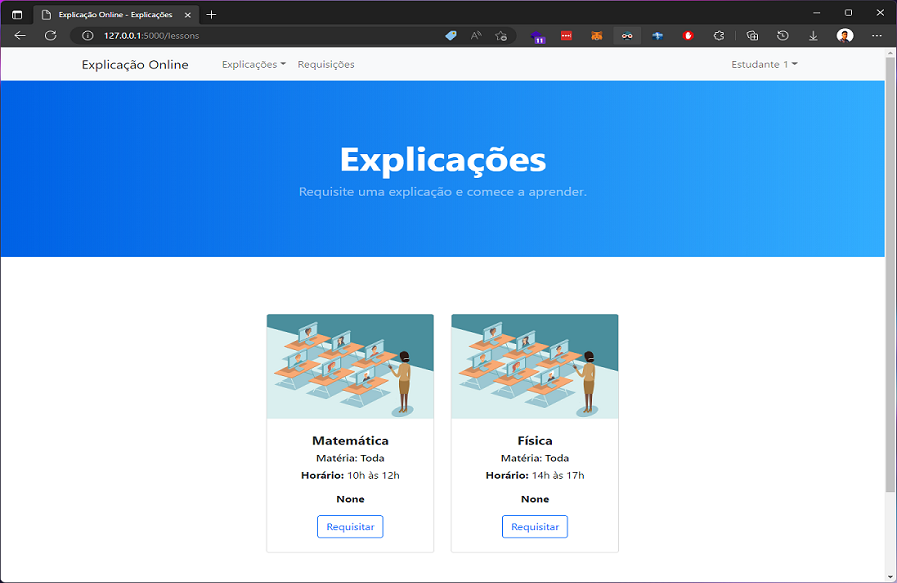
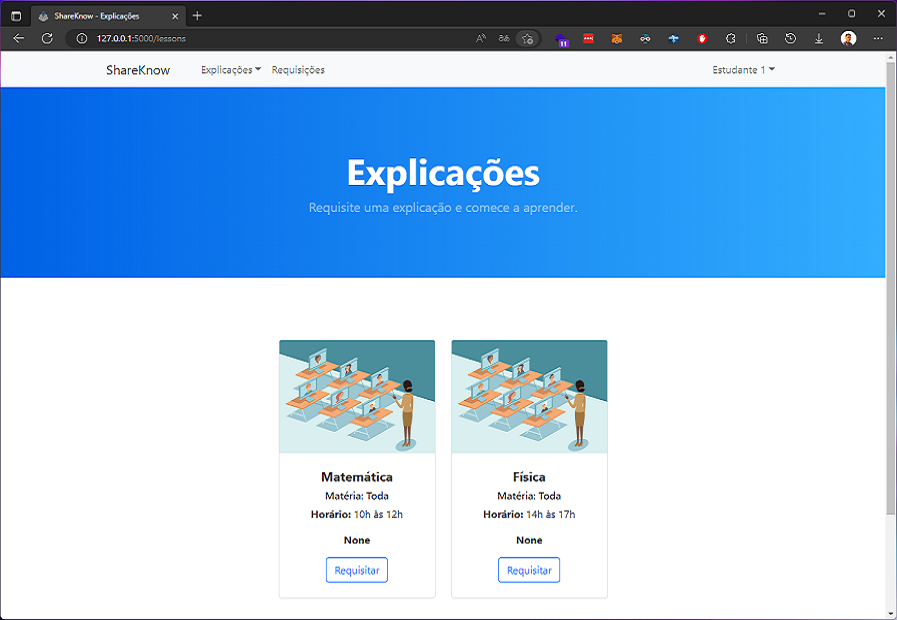
Short changes

diff --git a/src/templates/index.html b/src/templates/index.html
@@ -6,7 +6,7 @@
         <meta name="description" content="" />
         <meta name="author" content="" />
         <title>ShareKnow</title>
-        <link rel="icon" type="image/x-icon" href="assets/favicon.ico" />
+        <link rel="icon" type="image/x-icon" href="../static/images/favicon.png" />
         <!-- Font Awesome icons (free version)-->
         <script src="https://use.fontawesome.com/releases/v6.1.0/js/all.js" crossorigin="anonymous"></script>
         <!-- Google fonts-->
@@ -23,6 +23,7 @@
         <div class="masthead">
             <div class="masthead-content text-white">
                 <div class="container-fluid px-4 px-lg-0">
+                    <img class="mb-2" src="../static/images/logo.png" width="100px" height="100px">
                     <h1 class="fst-italic lh-1 mb-4">ShareKnow</h1>
                     <p class="mb-5">Gerencia suas explicações de forma 100% online, com suporte a pagamentos e integração com aulas ao vivo.</p>
                     <div class="col-auto"><a class="btn" style="background: linear-gradient(to right, #0062E6, #33AEFF);" href="/login">Entrar agora</a></div>

diff --git a/src/templates/manage-lessons.html b/src/templates/manage-lessons.html
@@ -7,7 +7,7 @@
         <meta name="author" content="" />
         <title>ShareKnow - Gerir Explicações</title>
         <!-- Favicon-->
-        <link rel="icon" type="image/x-icon" href="assets/favicon.ico" />
+        <link rel="icon" type="image/x-icon" href="../static/images/favicon.png" />
         <!-- Bootstrap icons-->
         <link href="https://cdn.jsdelivr.net/npm/bootstrap-icons@1.5.0/font/bootstrap-icons.css" rel="stylesheet" />
         <!-- Core theme CSS (includes Bootstrap)-->

diff --git a/src/templates/manage-requests.html b/src/templates/manage-requests.html
@@ -7,7 +7,7 @@
         <meta name="author" content="" />
         <title>ShareKnow - Gerir Requisições</title>
         <!-- Favicon-->
-        <link rel="icon" type="image/x-icon" href="assets/favicon.ico" />
+        <link rel="icon" type="image/x-icon" href="../static/images/favicon.png" />
         <!-- Bootstrap icons-->
         <link href="https://cdn.jsdelivr.net/npm/bootstrap-icons@1.5.0/font/bootstrap-icons.css" rel="stylesheet" />
         <!-- Core theme CSS (includes Bootstrap)-->

diff --git a/src/templates/lessons.html b/src/templates/lessons.html
@@ -7,7 +7,7 @@
         <meta name="author" content="" />
         <title>ShareKnow - Explicações</title>
         <!-- Favicon-->
-        <link rel="icon" type="image/x-icon" href="assets/favicon.ico" />
+        <link rel="icon" type="image/x-icon" href="../static/images/favicon.png" />
         <!-- Bootstrap icons-->
         <link href="https://cdn.jsdelivr.net/npm/bootstrap-icons@1.5.0/font/bootstrap-icons.css" rel="stylesheet" />
         <!-- Core theme CSS (includes Bootstrap)-->

diff --git a/src/templates/payments.html b/src/templates/payments.html
@@ -7,7 +7,7 @@
         <meta name="author" content="" />
         <title>ShareKnow - Pagamentos</title>
         <!-- Favicon-->
-        <link rel="icon" type="image/x-icon" href="assets/favicon.ico" />
+        <link rel="icon" type="image/x-icon" href="../static/images/favicon.png" />
         <!-- Bootstrap icons-->
         <link href="https://cdn.jsdelivr.net/npm/bootstrap-icons@1.5.0/font/bootstrap-icons.css" rel="stylesheet" />
         <!-- Core theme CSS (includes Bootstrap)-->

diff --git a/src/templates/security.html b/src/templates/security.html
@@ -7,7 +7,7 @@
         <meta name="author" content="" />
         <title>ShareKnow - Segurança</title>
         <!-- Favicon-->
-        <link rel="icon" type="image/x-icon" href="assets/favicon.ico" />
+        <link rel="icon" type="image/x-icon" href="../static/images/favicon.png" />
         <!-- Bootstrap icons-->
         <link href="https://cdn.jsdelivr.net/npm/bootstrap-icons@1.5.0/font/bootstrap-icons.css" rel="stylesheet" />
         <!-- Core theme CSS (includes Bootstrap)-->

diff --git a/src/templates/profile.html b/src/templates/profile.html
@@ -7,7 +7,7 @@
         <meta name="author" content="" />
         <title>ShareKnow - Perfil</title>
         <!-- Favicon-->
-        <link rel="icon" type="image/x-icon" href="assets/favicon.ico" />
+        <link rel="icon" type="image/x-icon" href="../static/images/favicon.png" />
         <!-- Bootstrap icons-->
         <link href="https://cdn.jsdelivr.net/npm/bootstrap-icons@1.5.0/font/bootstrap-icons.css" rel="stylesheet" />
         <!-- Core theme CSS (includes Bootstrap)-->

diff --git a/src/templates/login.html b/src/templates/login.html
@@ -3,6 +3,7 @@
         <title>ShareKnow - Entrar</title>
         <link href="../../static/css/login.css" rel="stylesheet">
         <link href="https://cdn.jsdelivr.net/npm/bootstrap-icons@1.5.0/font/bootstrap-icons.css" rel="stylesheet" />
+        <link rel="icon" type="image/x-icon" href="../static/images/favicon.png" />
         <!-- Core theme CSS (includes Bootstrap)-->
         <link href="../static/css/styles.css" rel="stylesheet" />
     </head>

diff --git a/src/templates/register.html b/src/templates/register.html
@@ -3,6 +3,7 @@
         <title>ShareKnow - Entrar</title>
         <link href="../../static/css/login.css" rel="stylesheet">
         <link href="https://cdn.jsdelivr.net/npm/bootstrap-icons@1.5.0/font/bootstrap-icons.css" rel="stylesheet" />
+        <link rel="icon" type="image/x-icon" href="../static/images/favicon.png" />
         <!-- Core theme CSS (includes Bootstrap)-->
         <link href="../static/css/styles.css" rel="stylesheet" />
     </head>

diff --git a/README.md b/README.md
@@ -1,4 +1,6 @@
-# eTasks
+<img src="./static/logo.png" with="100px" height="100px">
+
+# ShareKnow
 ![image info](./static/screenshot.png)
 
 # :pushpin: índice
@@ -42,7 +44,7 @@ Uma plataforma web que gerencia explicações de qualquer disciplina ou matéria
 ## :arrow_forward: Rodar o Projeto
 
 * Primeiro passo, clone ou baixe o projeto em sua maquina
-* Abra a pasta do projeto no terminal
+* Abra a pasta do projeto no terminal `cd shareknow/src`
 * Instale o virtualenv com o comando `pip install virtualenv` 
 * Crie virtualvenv com o comando `python3 -m venv venv`
 * Ative o virtualvenv com o comando `source venv/bin/activate`
